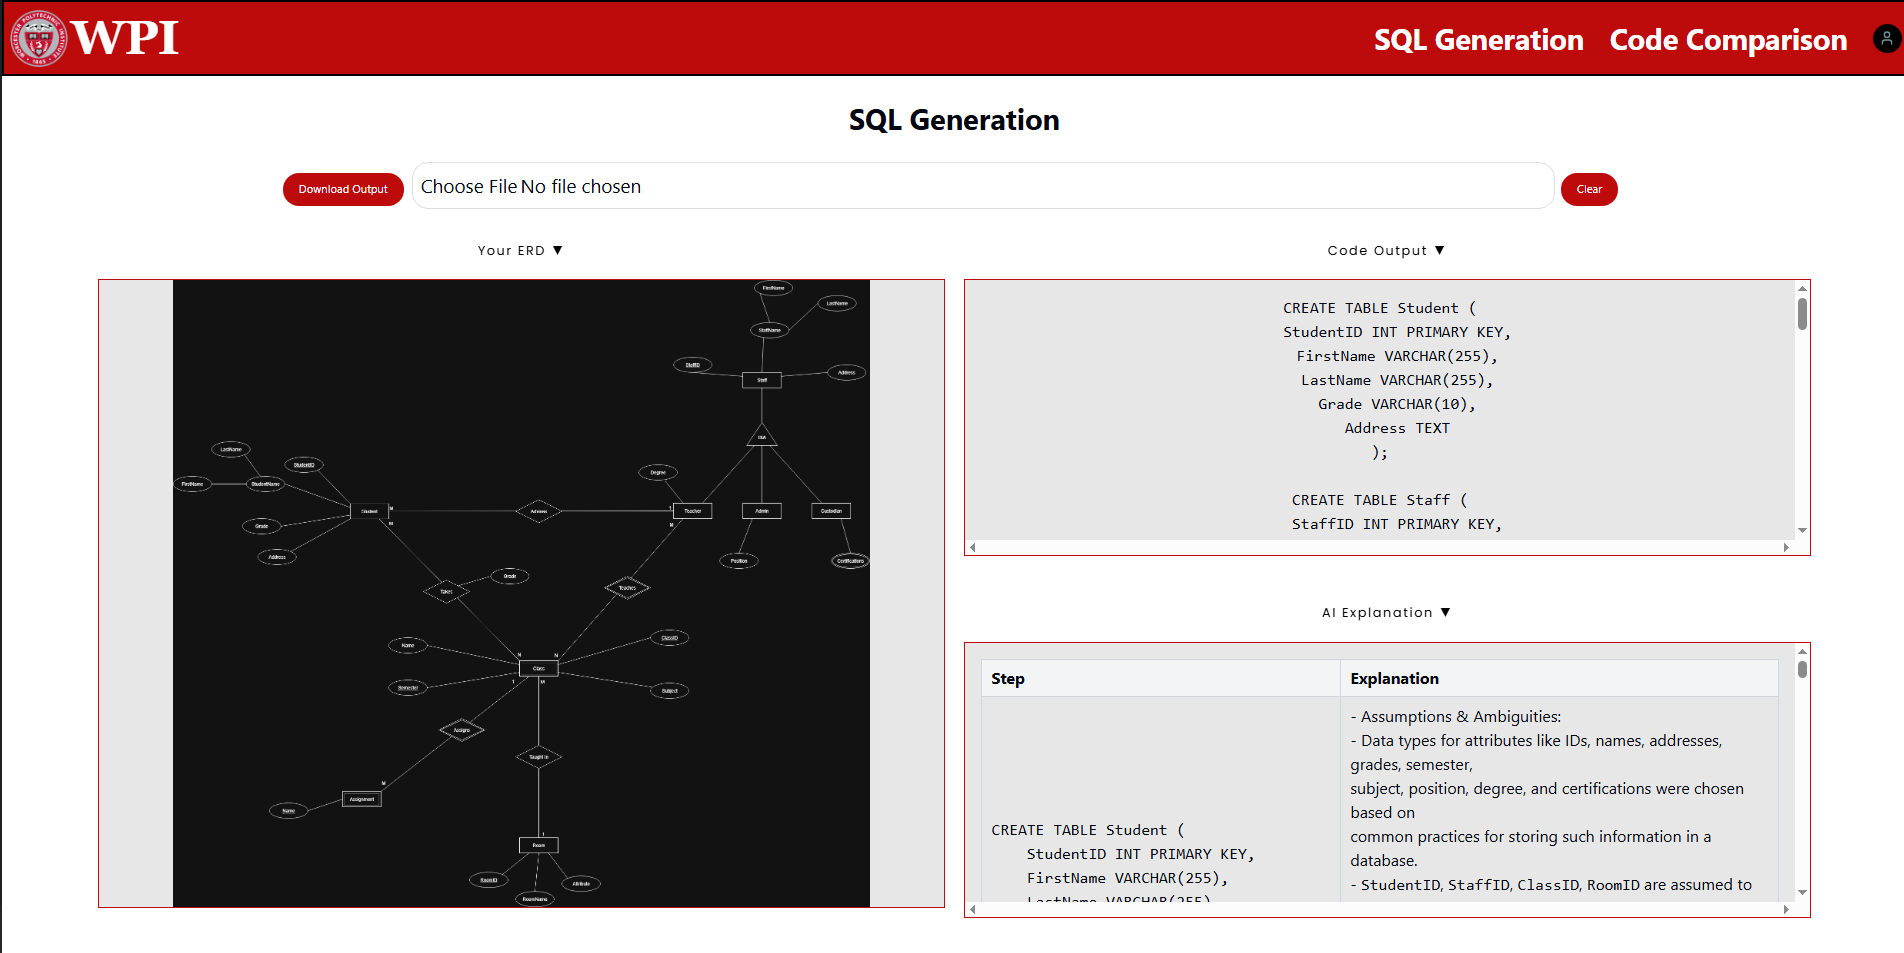
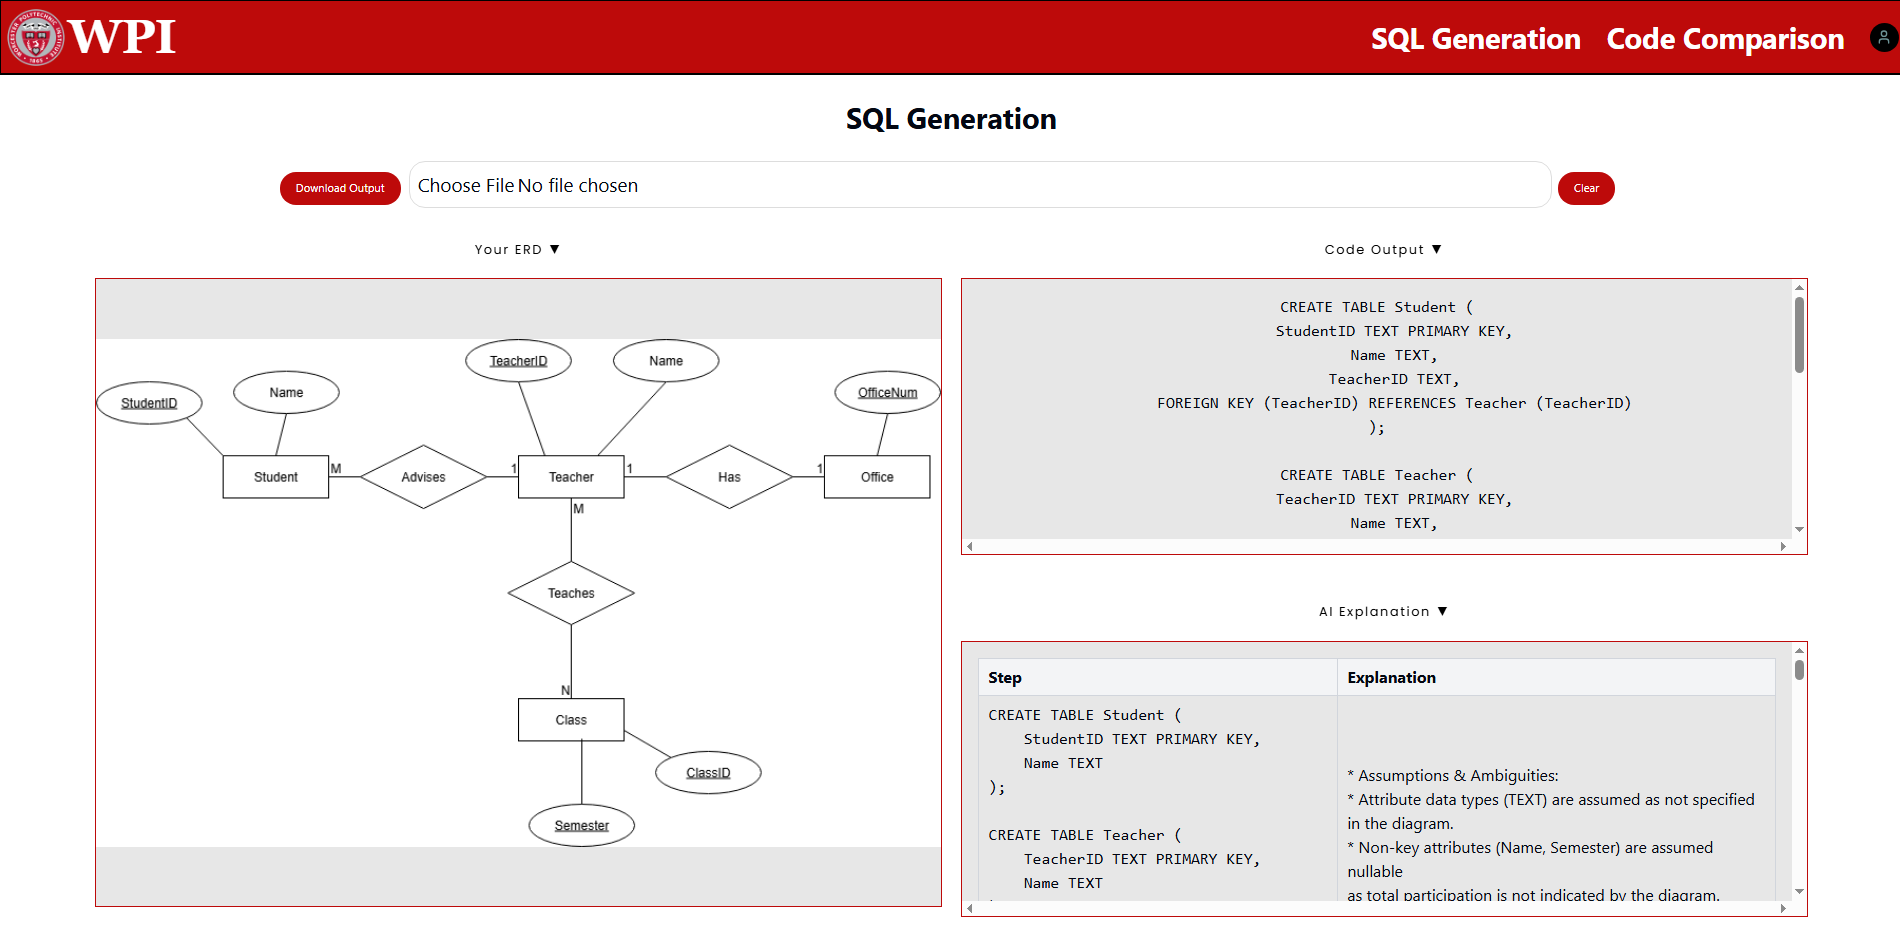
fixing popup

diff --git a/frontend/components/Footer.tsx b/frontend/components/Footer.tsx
@@ -65,10 +65,10 @@ export default function Footer() {
                             application. </h3>
                         <img style={{border: "solid black 1px", justifySelf: "center"}} src={HomeSQLGen}
                              alt={"Generate SQL Page Button"}/>
-                        <h3 style={{marginBottom: "2vh"}}> This button will take you to the page that generates SQL with an explanation.</h3>
+                        <h3 className={"h3-tut"} style={{marginBottom: "2vh"}}> This button will take you to the page that generates SQL with an explanation.</h3>
                         <img style={{border: "solid black 1px", justifySelf: "center"}} src={HomeComp}
                              alt={"Code Comparison Page Button"}/>
-                        <h3 style={{marginBottom: "2vh"}}> This button will take you to the page that allows you to compare your own code against generated code.</h3>
+                        <h3 className={"h3-tut"} style={{marginBottom: "2vh"}}> This button will take you to the page that allows you to compare your own code against generated code.</h3>
                     </div>
                     <div className="popuptext" id="genpopup">
                         <h1 className={"h1-tut"}>Generating SQL from an ERD with explanation</h1>

diff --git a/frontend/src/App.css b/frontend/src/App.css
@@ -12,9 +12,9 @@
 /* The actual popup (appears on top) */
 .popup .popuptext {
   visibility: hidden;
-  width: 30vw;
-  height: 80vh;
-  background-color: white;
+  width: 70vw;
+  height: 70vh;
+  background-color: #E7E7E7;
   color: black;
   text-align: center;
   border-radius: 6px;
@@ -24,7 +24,7 @@
   z-index: 1;
   bottom: 125%;
   left: 20%;
-  margin-left: -13.5vw;
+  margin-left: -23.5vw;
   border: solid black 2px;
   overflow: scroll;
 }
